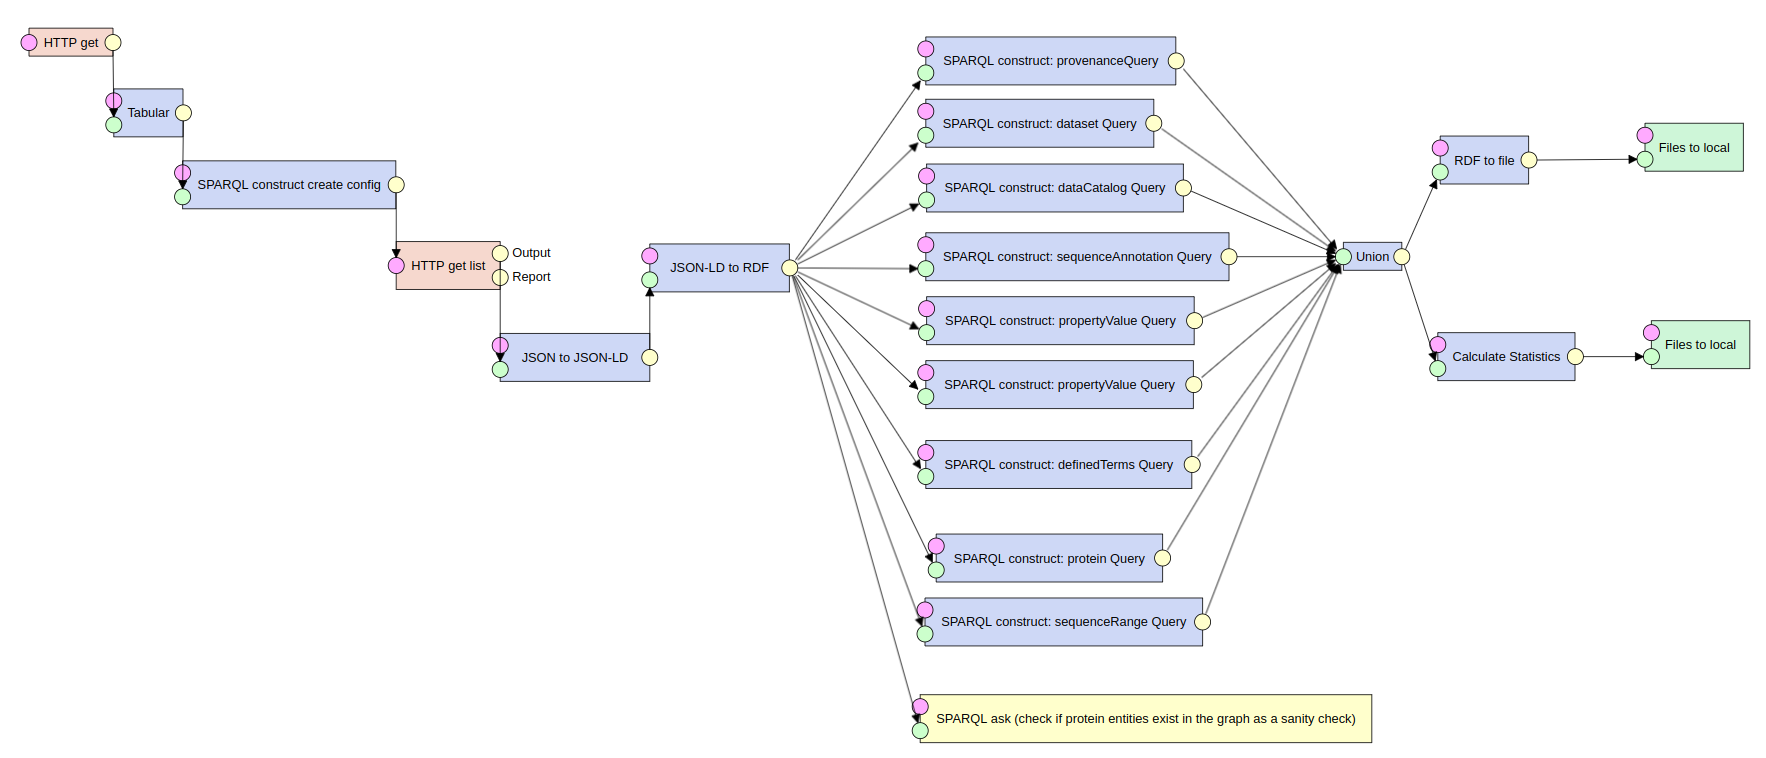
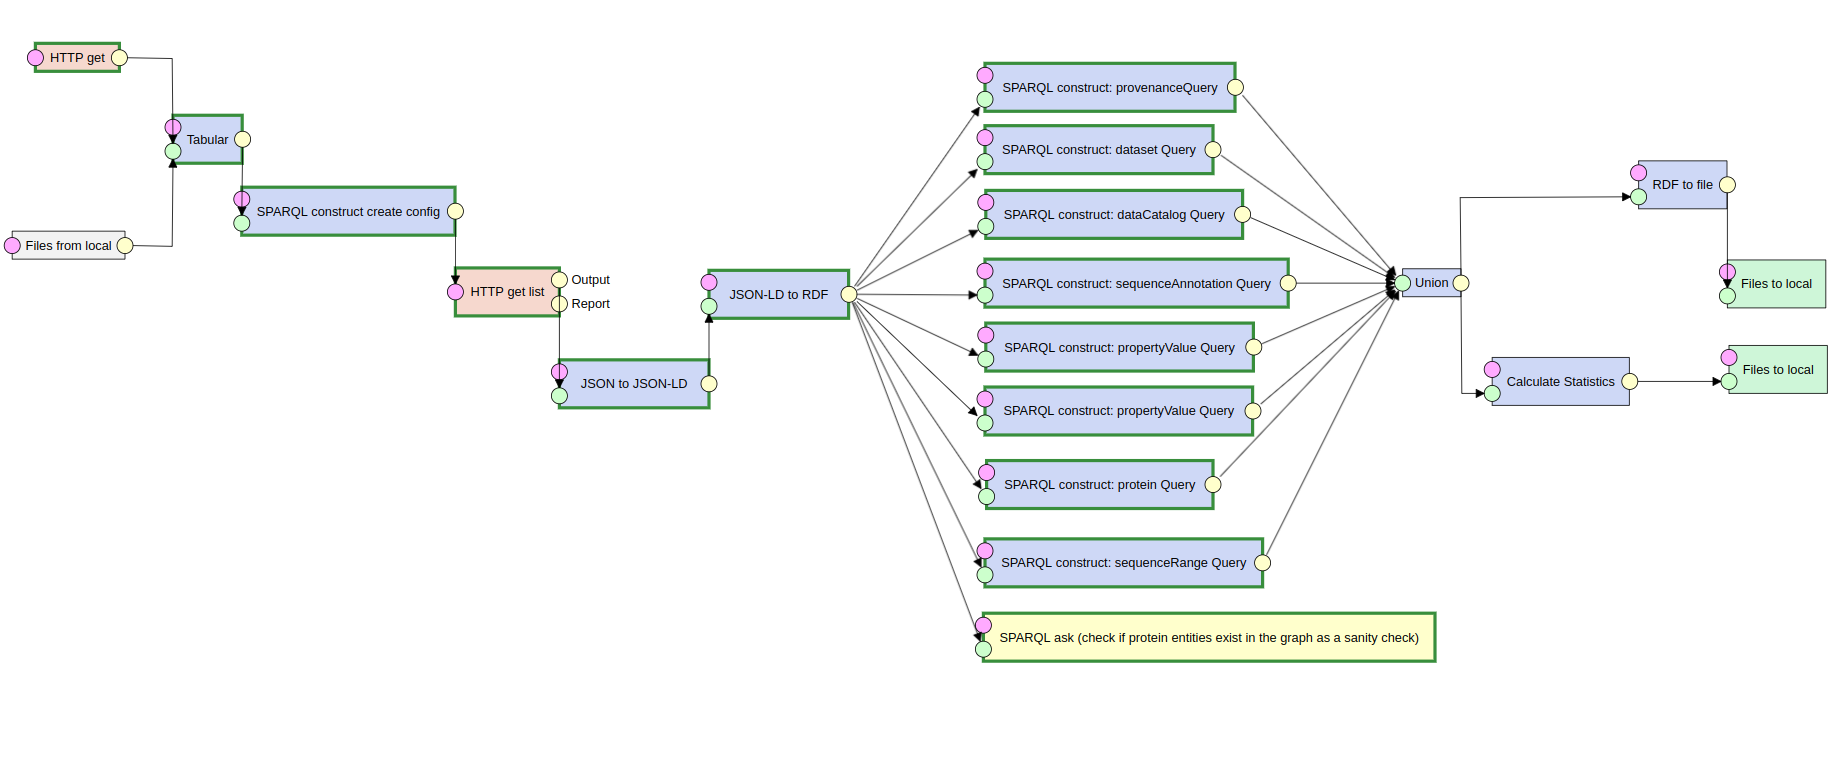
update manuscript

diff --git a/paper.md b/paper.md
@@ -55,8 +55,8 @@ pasting above link (or yours) in
 
 # Introduction
 
-As part of the one week Biohackathion Europe 2022 in Paris France, a group was formed to work on project 23 titled: Publishing and Consuming Schema.org DataFeeds.
-Bioschemas is a lightweight vocabulary aims at making web pages contents machine-readable where software agents can consume that content and understand it in an actionable way. Due to the time needed to process each page, extracting markup by visiting each page of a site is not practical for huge sites. This approach imposes processing requirements on the publisher and the consumer. 
+As part of the one-week Biohackathion Europe 2022 in Paris France, a group was formed to work on project 23 titled: Publishing and Consuming Schema.org DataFeeds.
+Bioschemas [@8cbc7003c0f74e778be9bbd9e9354a15] is a lightweight vocabulary that aims at making web pages contents machine-readable so that software agents can consume that content and understand it in an actionable way. Due to the time needed to process each page, extracting markup by visiting each page of a site is not practical for huge sites. This approach imposes processing requirements on the publisher and the consumer. 
 The Schema.org community proposed a method for exchanging markup from various pages as a DataFeed published at a recognized address in February 2022. The feed could consist of a single file containing the entire information or it could be divided into different files based on different aspects of the dataset, such as proteins and molecular entities, as in the case of ChEMBL. This would ease publisher and customer processing requirements and accelerate data collection.
 The aim of Project 23 is to explore the implementation of the Schema.org proposal from both a producer and consumer perspective, for a variety of resources implementing different Bioschemas profiles. This report focuses on the consumer part of the project proposal where we explored an ETL pipeline (Extract-Transform-Load) approach and implemented a consumption pipeline that enables data feeds to be ingested into knowledge graphs (KG).
 
@@ -67,41 +67,41 @@ The aim of Project 23 is to explore the implementation of the Schema.org proposa
 
 ## The construction of IDPcentral Knowledge Graph as a use case
 
-The example pipeline that we developed in this work is based on a [previous work](https://github.com/BioComputingUP/IDP-KG) developed during the ELIXIR sponsored BioHackathon-Europe 2020 and reported in BioHackrXiv [@Gray_2021].
+The example pipeline that we developed in this work is based on a [previous work](https://github.com/BioComputingUP/IDP-KG) developed during the ELIXIR-sponsored BioHackathon-Europe 2020 and reported in BioHackrXiv [@Gray_2021].
 In that work, several notebooks were developed to generate the IDPcentral Knowledge Graph based on data harvested from three sources: 
-[DisProt](https://disprot.org/), [MobiDB](https://mobidb.org/), and [ProteinEnsemble (PED)](https://proteinensemble.org/).
+[DisProt](https://disprot.org/) [@Sickmeier_2007], [MobiDB](https://mobidb.org/) [@Di_Domenico_2012], and [ProteinEnsemble (PED)](https://proteinensemble.org/) [@Lazar_2020].
 
-More specifically, we aimed at reprocuding [one of the notebooks](https://github.com/BioComputingUP/IDP-KG/blob/main/notebooks/ETLProcess.ipynb) that did the ETL processing in order to create the knowledge graph, but this time in the form of a pipeline.
+More specifically, we aimed at reproducing [one of the notebooks](https://github.com/BioComputingUP/IDP-KG/blob/main/notebooks/ETLProcess.ipynb) that did the ETL processing in order to create the knowledge graph, but this time in the form of a pipeline.
 
-The pipeline is supposed to load scraped JSON-LD from the three aformentioned sources, convert it to RDF, apply SPARQL construct queries to map the source RDF to a unified Bioschemas-based model and store the resulting KG as a ttl file.
+The pipeline is supposed to load scraped JSON-LD from the three aforementioned sources, convert it to RDF, apply SPARQL construct queries to map the source RDF to a unified Bioschemas-based model and store the resulting KG as a ttl file.
 
 ## Exploring the LinkedPipes linked data suite
 
-We explored a suite for linked data called [LinkedPipes](https://etl.linkedpipes.com/), specifically, the ETL (Etract-Transform-Load) part of it.
+We explored a suite for linked data called [LinkedPipes](https://etl.linkedpipes.com/) [@Kl_mek_2017], specifically, the ETL (Extract-Transform-Load) part of it.
 
-LinkedPipes ETL is an RDF based, lightweight ETL tool. It has a modular design providing a large collection of components to be used in building ETL pipelines.
+LinkedPipes ETL is an RDF-based, lightweight ETL tool. It has a modular design providing a large collection of components to be used in building ETL pipelines.
 Everything in LinkedPipes is in RDF. The ETL pipelines, component setups, and messages indicating pipeline progress are included in this. 
 
-We found LinkedPipes to be feature-rich and suitable for our aim. Some of the capabilities of LinkedPipes includes:
+We found LinkedPipes to be feature-rich and suitable for our aim. The capabilities of LinkedPipes include:
 
 1. Loading data from different sources like: 
-	- Download files over HTTP (multiple download in parallel from a list of URLs is supported).
+	- Download files over HTTP (multiple downloads in parallel from a list of URLs is supported).
 	- Download from FTP
-	- Load data from a SAPRQL endpoint using a construct query.
+	- Load data from a SPARQL endpoint using a construct query.
 		- Supports chunked loading from SPARQL through a series of CONSTRUCT queries (it can be helpful to avoid timeouts) 
-		- Supports extracting triples using scrollable cursor technique for OpenLink Virtuoso
-1. Convert the downloaded files to RDF (details are specified by user) from multiple formats (CSV, TSV, JSON, XML, HDT) and then merge all the RDFs in a single graph.
+		- Supports extracting triples using the scrollable cursor technique for OpenLink Virtuoso
+1. Convert the downloaded files to RDF (details are specified by the user) from multiple formats (CSV, TSV, JSON, XML, HDT) and then merge all the RDFs in a single graph.
 1. Manipulate/map the RDF graph using SPARQL update/construct queries.
 1. zip/unzip/hash/rename/filter files.
 1. Export/store the resulted graph into a SPARQL endpoint, a virtuoso instance, a Jena TBD model, push to FTP or just save as a file locally (supports most known formats like nt, ttl, nq, rdf/xml, JSON-LD, trig and others)
-1. Scrape URLs and extract information from the HTML using CSS selectors and create a triples from them on the fly (which then can be mapped to another model).
+1. Scrape URLs and extract information from the HTML using CSS selectors and create triples from them on the fly (which then can be mapped to another model).
 1. Validates input data using SHACL shapes
 1. Generates text files using the {{ mustache }} templates.
 1. Create VoID and DCAT dataset/distribution metadata and add it to the graph or save it as a separate file (the user controls that in the pipeline).
 1. Other features:
 	- Provides geographical projection transformation features.
 	- Translates literals using Bing machine translation.
-	- Checks data with a SPARQL ask query and stops pipeline execution on success or fail.
+	- Checks data with a SPARQL ASK query and stops pipeline execution on success or failure.
 
 
 ## Starting LinkedPipe using Docker
@@ -116,7 +116,7 @@ docker-compose up
 
 ## Runtime Configuration for LinkedPipes components
 
-Some of LinkedPipes components requires a runtime configuration to function. For example, the [HTTP get list](https://etl.linkedpipes.com/components/e-httpgetfiles) component, that download multiple files using HTTP requests, requires the URLs to be downloaded and the target file names to be provided using a runtime configuration representated in RDF.
+Some of LinkedPipes components require a runtime configuration to function. For example, the [HTTP get list](https://etl.linkedpipes.com/components/e-httpgetfiles) component, which downloads multiple files using HTTP requests, requires the URLs to be downloaded and the target file names to be provided using a runtime configuration represented in RDF.
 
 Below is an example of the structure of this RDF configuration:
 
@@ -138,21 +138,152 @@ The ttl snippet above indicates three main pieces of information:
 	- httpList:fileUri where the object is a string literal of the URL of the file to be downloaded.
 	- httpList:fileName where the object is the name of the file to be stored locally after the download.
 	
-Fortunately, this configuation can be constructured from a list of URLs using a SPARQL CONSTRUCT query.
+Fortunately, this configuration can be constructed from a list of URLs using a SPARQL CONSTRUCT query.
 
 ## The pipeline explained
 
-![An overview of the developed pipeline using  \label{fig}](./figures/the-pipeline.png)
+![An overview of the developed pipeline using LinkedPipes \label{fig-pipeline}](./figures/the-pipeline.png)
 
 
-The figure above shows the built pipeline in this work which downloads JSON-LD files scraped from three sources and stored on GitHub, converts them to RDF, map the RDF to a unifed model and store the resulting graph to a ttl file. It will also calculate some statistics on the convereted RDF and store it in a CSV file next to the output ttl file.
+Figure \ref{fig-pipeline} shows the built pipeline in this work which downloads JSON-LD files scraped from three sources and stored on GitHub, converts them to RDF, map the RDF to a unified model and store the resulting graph to a ttl file. The pipeline also calculates some statistics from the converted RDF and stores it in a CSV file next to the output ttl file. The following sections describe in detail the different stages of the KG construction pipeline.
+
+### The extract stage
+
+![The Extract part of the developed pipeline \label{fig-transform}](./figures/the-pipeline.png)
+
+In this stage of the pipeline, the list of URLs to be downloaded is provided either through a remote file that is downloaded with an HTTP request or from a local text file as shown in Figure \ref{fig-extract}. The node of type "HTTP get" contains a URL to the file containing the list of URLs to download, in this case, names "url.txt". On the other hand, another way of obtaining that file is from the local file system through the node of type "Files from local". The "Files from local" node appears to be greyed out in the figure where it is disabled since we chose to download the file from a GitHub repository instead of loading it from the file system. Hence, allowing the pipeline to be portable and not dependent on the machine running the pipeline. In order to use the "url.txt" file, it needs to be represented in RDF, since this is the only way that LinkedPipes represents data for its configuration and pipelines. Thus, the next node of type "Tabular" is responsible for converting the "url.txt "file to RDF by mapping it, as a delimiter-separated file, to a set of triples. Each URL is represented as a triple where the subject is automatically generated from a user-defined prefix and the number of rows, and the object is the actual URL as a string literal as shown in the following example:
+```
+<https://example.com/1> <file://url.txt#column_1> "https://github.com/BioComputingUP/IDP-KG/raw/main/scraped-data/2022-10-27_subset/jsonld/disprot/DP00176.jsonld" .
+```
+As described in the runtime configuration section, in order to fetch files from a list of URLs using the node type "HTTP get list", those URLs should be presented as a runtime configuration to that node. Hence, the node of type "SPARQL construct" that is labeled "SPARQL construct create config" is used to create the runtime configuration. A SPARQL construct query is used to map the simple triples from the previous node "Tabular" to the required configuration vocabulary as demonstrated below:
+
+```
+PREFIX httpList: <http://plugins.linkedpipes.com/ontology/e-httpGetFiles#>
+
+CONSTRUCT { 
+  <http://localhost/resource/configuration> a httpList:Configuration ;
+    httpList:reference ?s.
+  ?s a httpList:Reference ;
+    httpList:fileUri ?o;
+    httpList:fileName ?domain.
+
+} WHERE {
+  ?s ?p ?o.
+  BIND(REPLACE(STR(?o), "^.+/([^/]+\\.[a-z]+)$", "$1") AS ?domain)
+}
+
+```
+Now, using the constructed config, the node "HTTP get list" downloads the JSON-LD files that will be used to create the knowledge graph. The user can configure the node to set the number of threads used for download, the number of download retries in case of failure and the wait time between retries (in milliseconds).
 
 
-## Testing the pipeline
+### The transform stage
 
-The pipeline can be tested with a local running instance of LinkedPipes or using the online [demo instance](https://demo.etl.linkedpipes.com/).
+In this stage, the download JSON-LD files go through a series of transformations in order to get the final RDF graph. First, the node of type "JSON to JSON-LD" is used to add a specified JSON-LD context (in this case: https://schema.org/) and additional provenance data to the input JSON files. The input JSON-LD files contain multiple entities in each file, and thus, this step is needed to get a proper JSON-LD for the next step in the pipeline. In case the input JSON-LD file contains a single entity, this step is not needed. Next, the node of type "JSON-LD to RDF" is applied to convert the JSON-LD to turtle RDF on which SPARQL queries can be executed. Next, eight SPARQL construct queries are applied on the RDF of the input JSON-LD files using nodes of type "SPARQL construct" to map them to a unified Bioschemas-based model. Below, we show an example of a construct query to create protein entities having IRIs that follow the IDPC accession URL pattern (https://idpcentral.org/id/{UNIPROT_ID}). The query is an adapted version of the original query in the notebook that this pipeline is aiming to reproduce.
 
-By using the upload function under the "piplines" tab, users can load the pipeline either as a file or as a URL, and then, it be executed to get the output RDF. All the files needed for the pipeline to execute (the input URL list and the JSON-LD files) are hosted online in GitHub. Therfore, the pipeline is portable and reproducible on any machine.
+```
+PREFIX pav: <http://purl.org/pav/>
+PREFIX schema: <https://schema.org/>
+PREFIX void: <http://rdfs.org/ns/void#>
+PREFIX idpc: <https://idpcentral.org/id/> 
+PREFIX owl: <http://www.w3.org/2002/07/owl#> 
+
+CONSTRUCT {
+    ?idpcAccesssion a schema:Protein ;
+        schema:identifier ?identifier ;
+        schema:name ?name ;
+        schema:associatedDisease ?associatedDisease ;
+        schema:description ?description ;
+        schema:hasSequenceAnnotation ?annotation ;
+        schema:isEncodedByBioChemEntity ?encodedBy ;
+        schema:taxonomicRange ?taxonomicRange ;
+        schema:url ?url ;
+        schema:alternateName ?alternateName ;
+        schema:bioChemInteraction ?bioChemInteraction ;
+        schema:bioChemSimilarity ?bioChemSimilarity ;
+        schema:hasBioChemEntityPart ?bioChemEntity ;
+        schema:hasBioPolymerSequence ?sequence ;
+        schema:hasMolecularFunction ?molFunction ;
+        schema:hasRepresentation ?representation ;
+        schema:image ?image ;
+        schema:isInvolvedInBiologicalProcess ?process ;
+        schema:isLocatedInSubcellularLocation ?cellularLocation ;
+        schema:isPartOfBioChemEntity ?parentEntity ;
+        schema:sameAs ?sameAs , ?s ;
+        owl:sameAs ?sameAs .
+}
+WHERE {
+# Bioschemas Minimal Properties
+        ?s a schema:Protein .
+        OPTIONAL {?s schema:identifier ?identifier }
+        OPTIONAL {?s schema:name ?name }
+## Bioschemas Recommended properties
+        OPTIONAL {?s schema:associatedDisease ?associatedDisease}
+        OPTIONAL {?s schema:description ?description}
+        OPTIONAL {?s schema:hasSequenceAnnotation ?annotation }
+        OPTIONAL {?s schema:isEncodedByBioChemEntity ?encodedBy}
+        OPTIONAL {?s schema:taxonomicRange ?taxonomicRange }
+        OPTIONAL {?s schema:url ?url}
+## Bioschemas Optional properties
+        OPTIONAL {?s schema:alternateName ?alternateName}
+        OPTIONAL {?s schema:bioChemInteraction ?bioChemInteraction}
+        OPTIONAL {?s schema:bioChemSimilarity ?bioChemSimilarity}
+        OPTIONAL {?s schema:hasBioChemEntityPart ?bioChemEntity}
+        OPTIONAL {?s schema:hasBioPolymerSequence ?sequence}
+        OPTIONAL {?s schema:hasMolecularFunction ?molFunction}
+        OPTIONAL {?s schema:hasRepresentation ?representation }
+        OPTIONAL {?s schema:image ?image}
+        OPTIONAL {?s schema:isInvolvedInBiologicalProcess ?process}
+        OPTIONAL {?s schema:isLocatedInSubcellularLocation ?cellularLocation}
+        OPTIONAL {?s schema:isPartOfBioChemEntity ?parentEntity}
+        ?s schema:sameAs ?sameAs.
+      FILTER REGEX(STR(?sameAs), "^(https://www|http://purl).uniprot.org/uniprot/")
+  BIND(IRI(REPLACE(STR(?sameAs),'^(https://www|http://purl).uniprot.org/uniprot/', 'https://idpcentral.org/id/')) AS ?idpcAccesssion )
+}
+```
+Moreover, the transformation part of the pipeline also includes a sanity check applied through a node of type "SPARQL ask" where an ASK SPARQL query is executed to make sure that schema:Protein entities exist in the source RDF. In case of the absence of those entities, the ASK query will fail and the pipeline execution will halt with the "SPARQL ask" node highlighted in red. That can help the user identify problems in the input RDF. For example, having the wrong input files, empty files or files with missing types of data. Finally, another node of type "SPARQL construct" is used to create a summary count of three types of entities, namely, schema:Protein, schema:SequenceAnnotation and schema:SequenceRange as shown in the query below.
+
+```
+PREFIX schema: <https://schema.org/>
+SELECT ?desc ?count WHERE { 
  
+  {
+    select ?desc (count(distinct ?s) as ?count) where
+    {
+      ?s a schema:Protein.
+      
+      BIND("Number of proteins" as ?desc)
+    } GROUP BY ?desc
+  }
+  UNION
+
+  {
+    select ?desc (count(distinct ?s) as ?count) where
+    {
+      ?s a schema:SequenceAnnotation.
+      
+      BIND("Number of SequenceAnnotation" as ?desc)
+    } GROUP BY ?desc
+  }
+  
+  UNION
+
+  {
+    select ?desc (count(distinct ?s) as ?count) where
+    {
+      ?s a schema:SequenceRange.
+      
+      BIND("Number of SequenceRange" as ?desc)
+    } GROUP BY ?desc
+  }
+}
+```
+
+### The load stage
+
+
+
+## LinkedPipes pipeline export, testing and FAIR compliance
+
+The pipeline can be tested using a local running instance of LinkedPipes or using the online [demo instance](https://demo.etl.linkedpipes.com/). By using the upload function under the "pipelines" tab, users can load the pipeline either as a file or as a URL, and then, it can be executed to get the output RDF. All the files needed for the pipeline to execute (the input URL list and the JSON-LD files) are hosted online in GitHub repositories. Therefore, the pipeline is portable and reproducible on any machine.
 
 ## References
